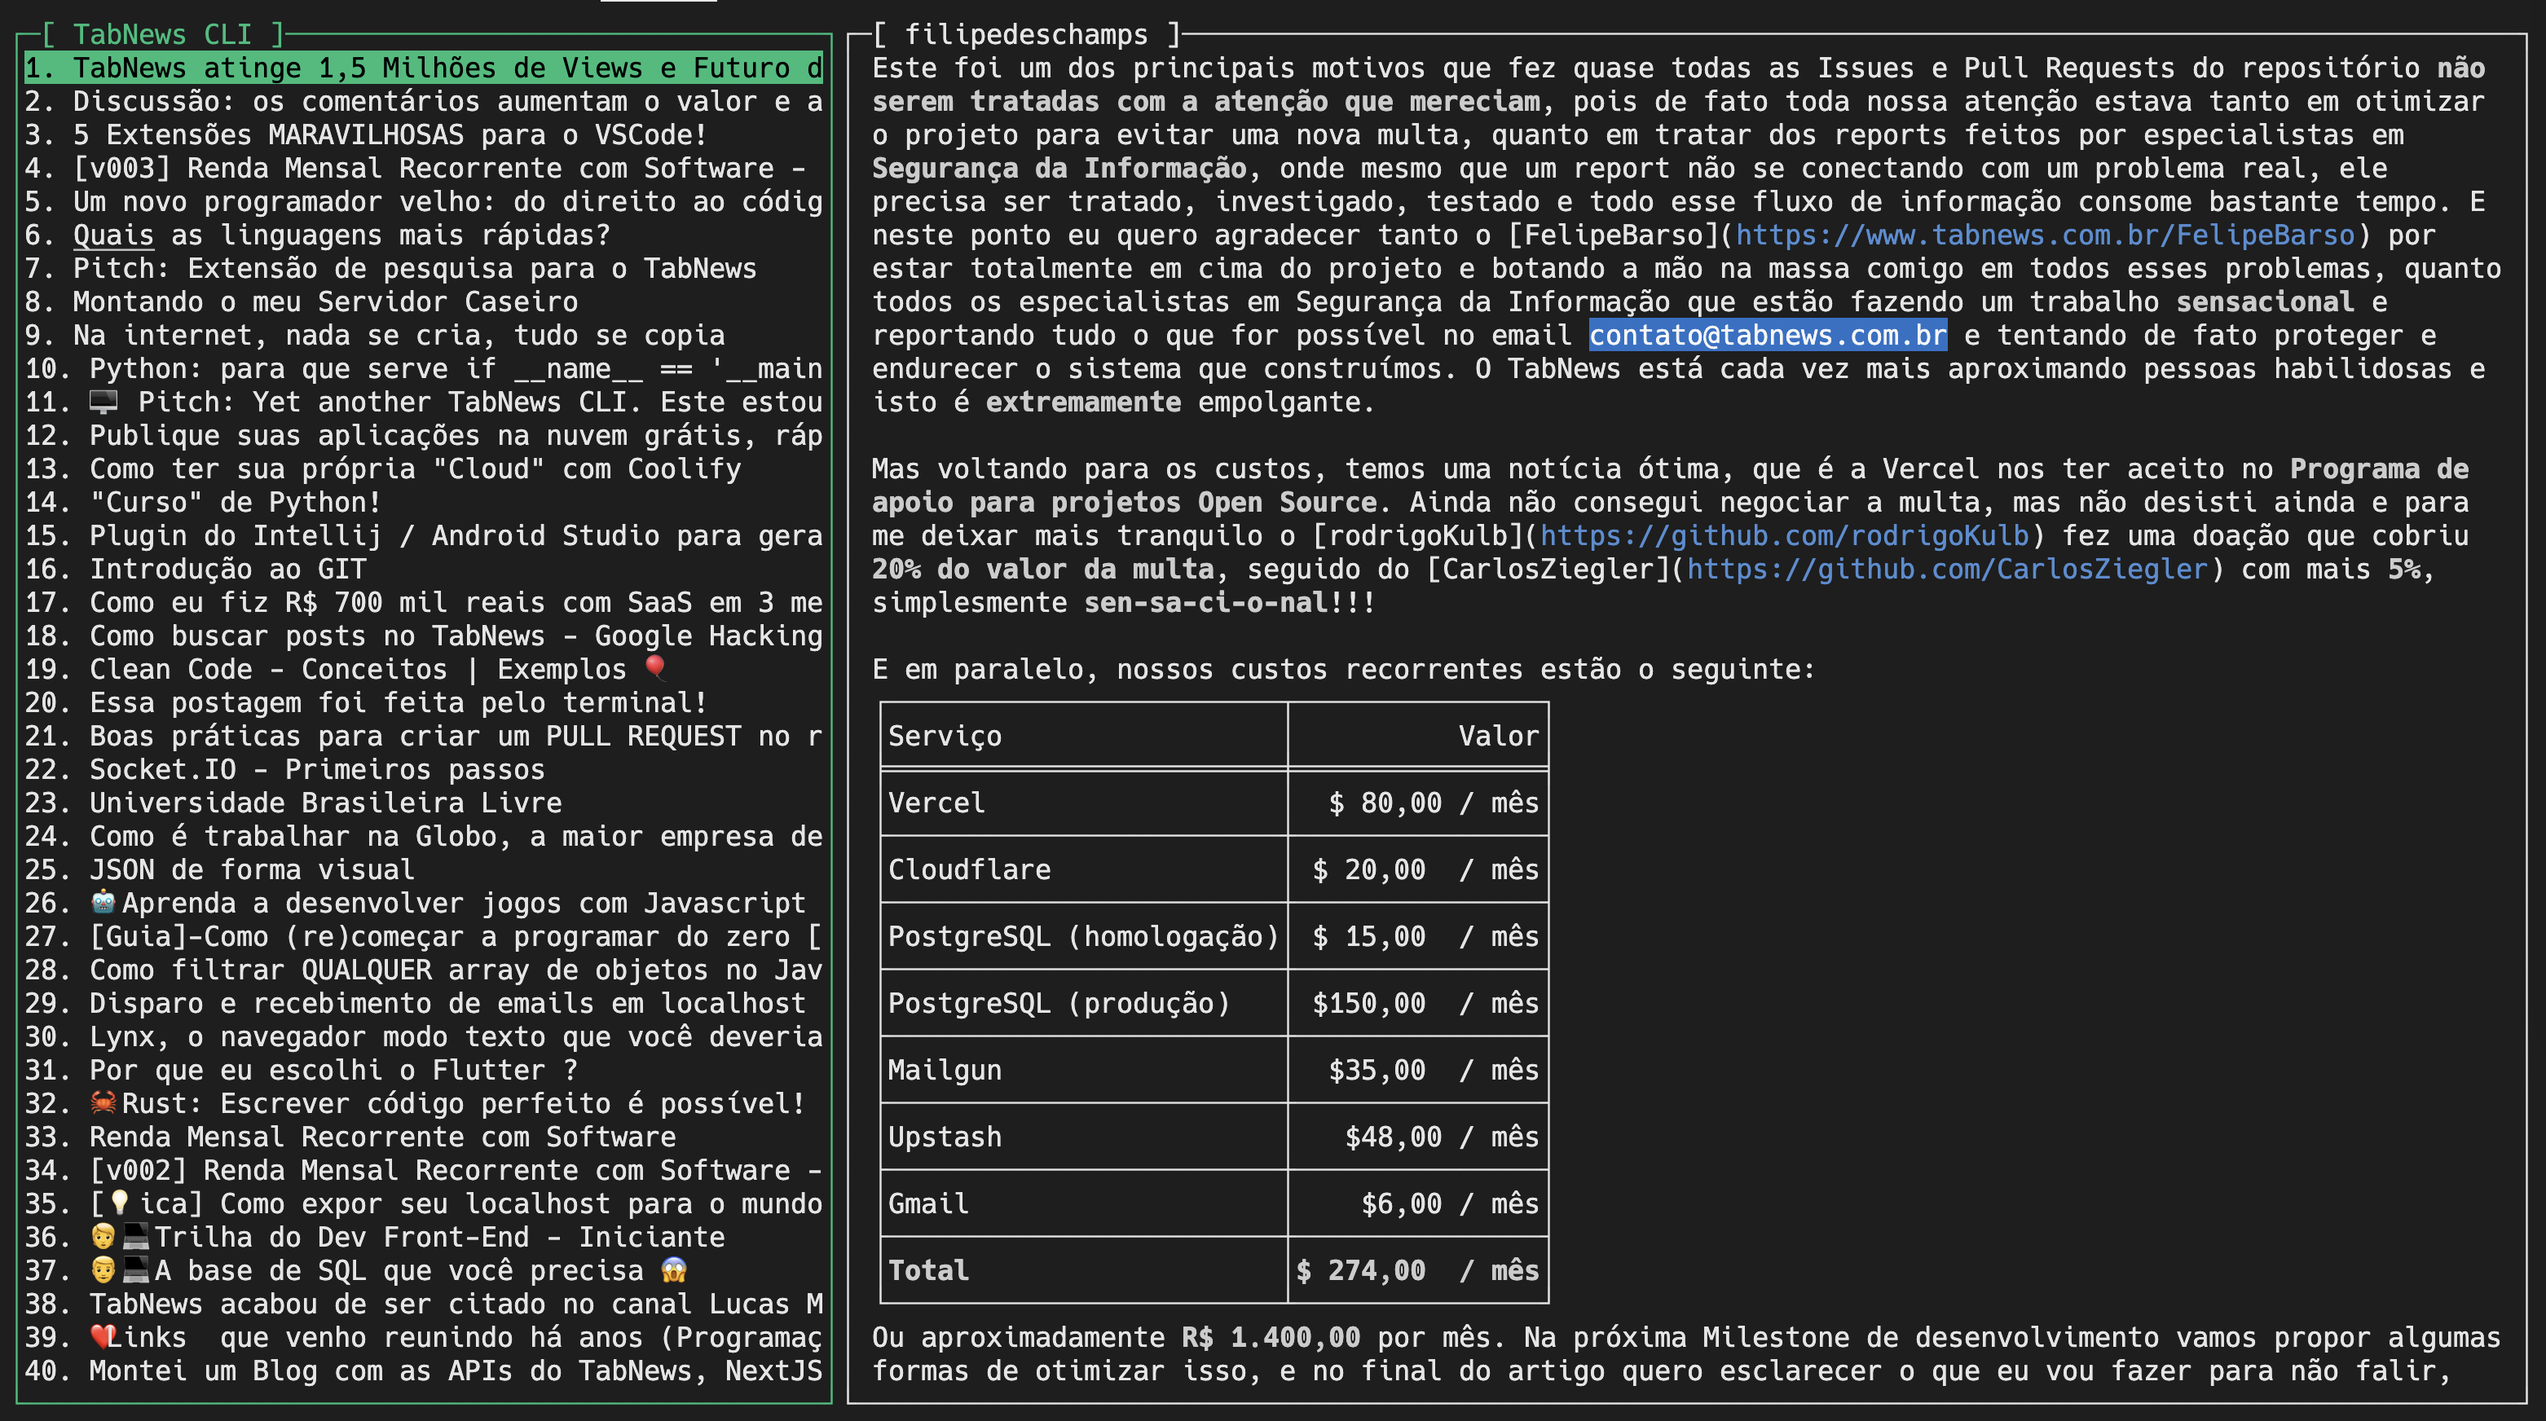
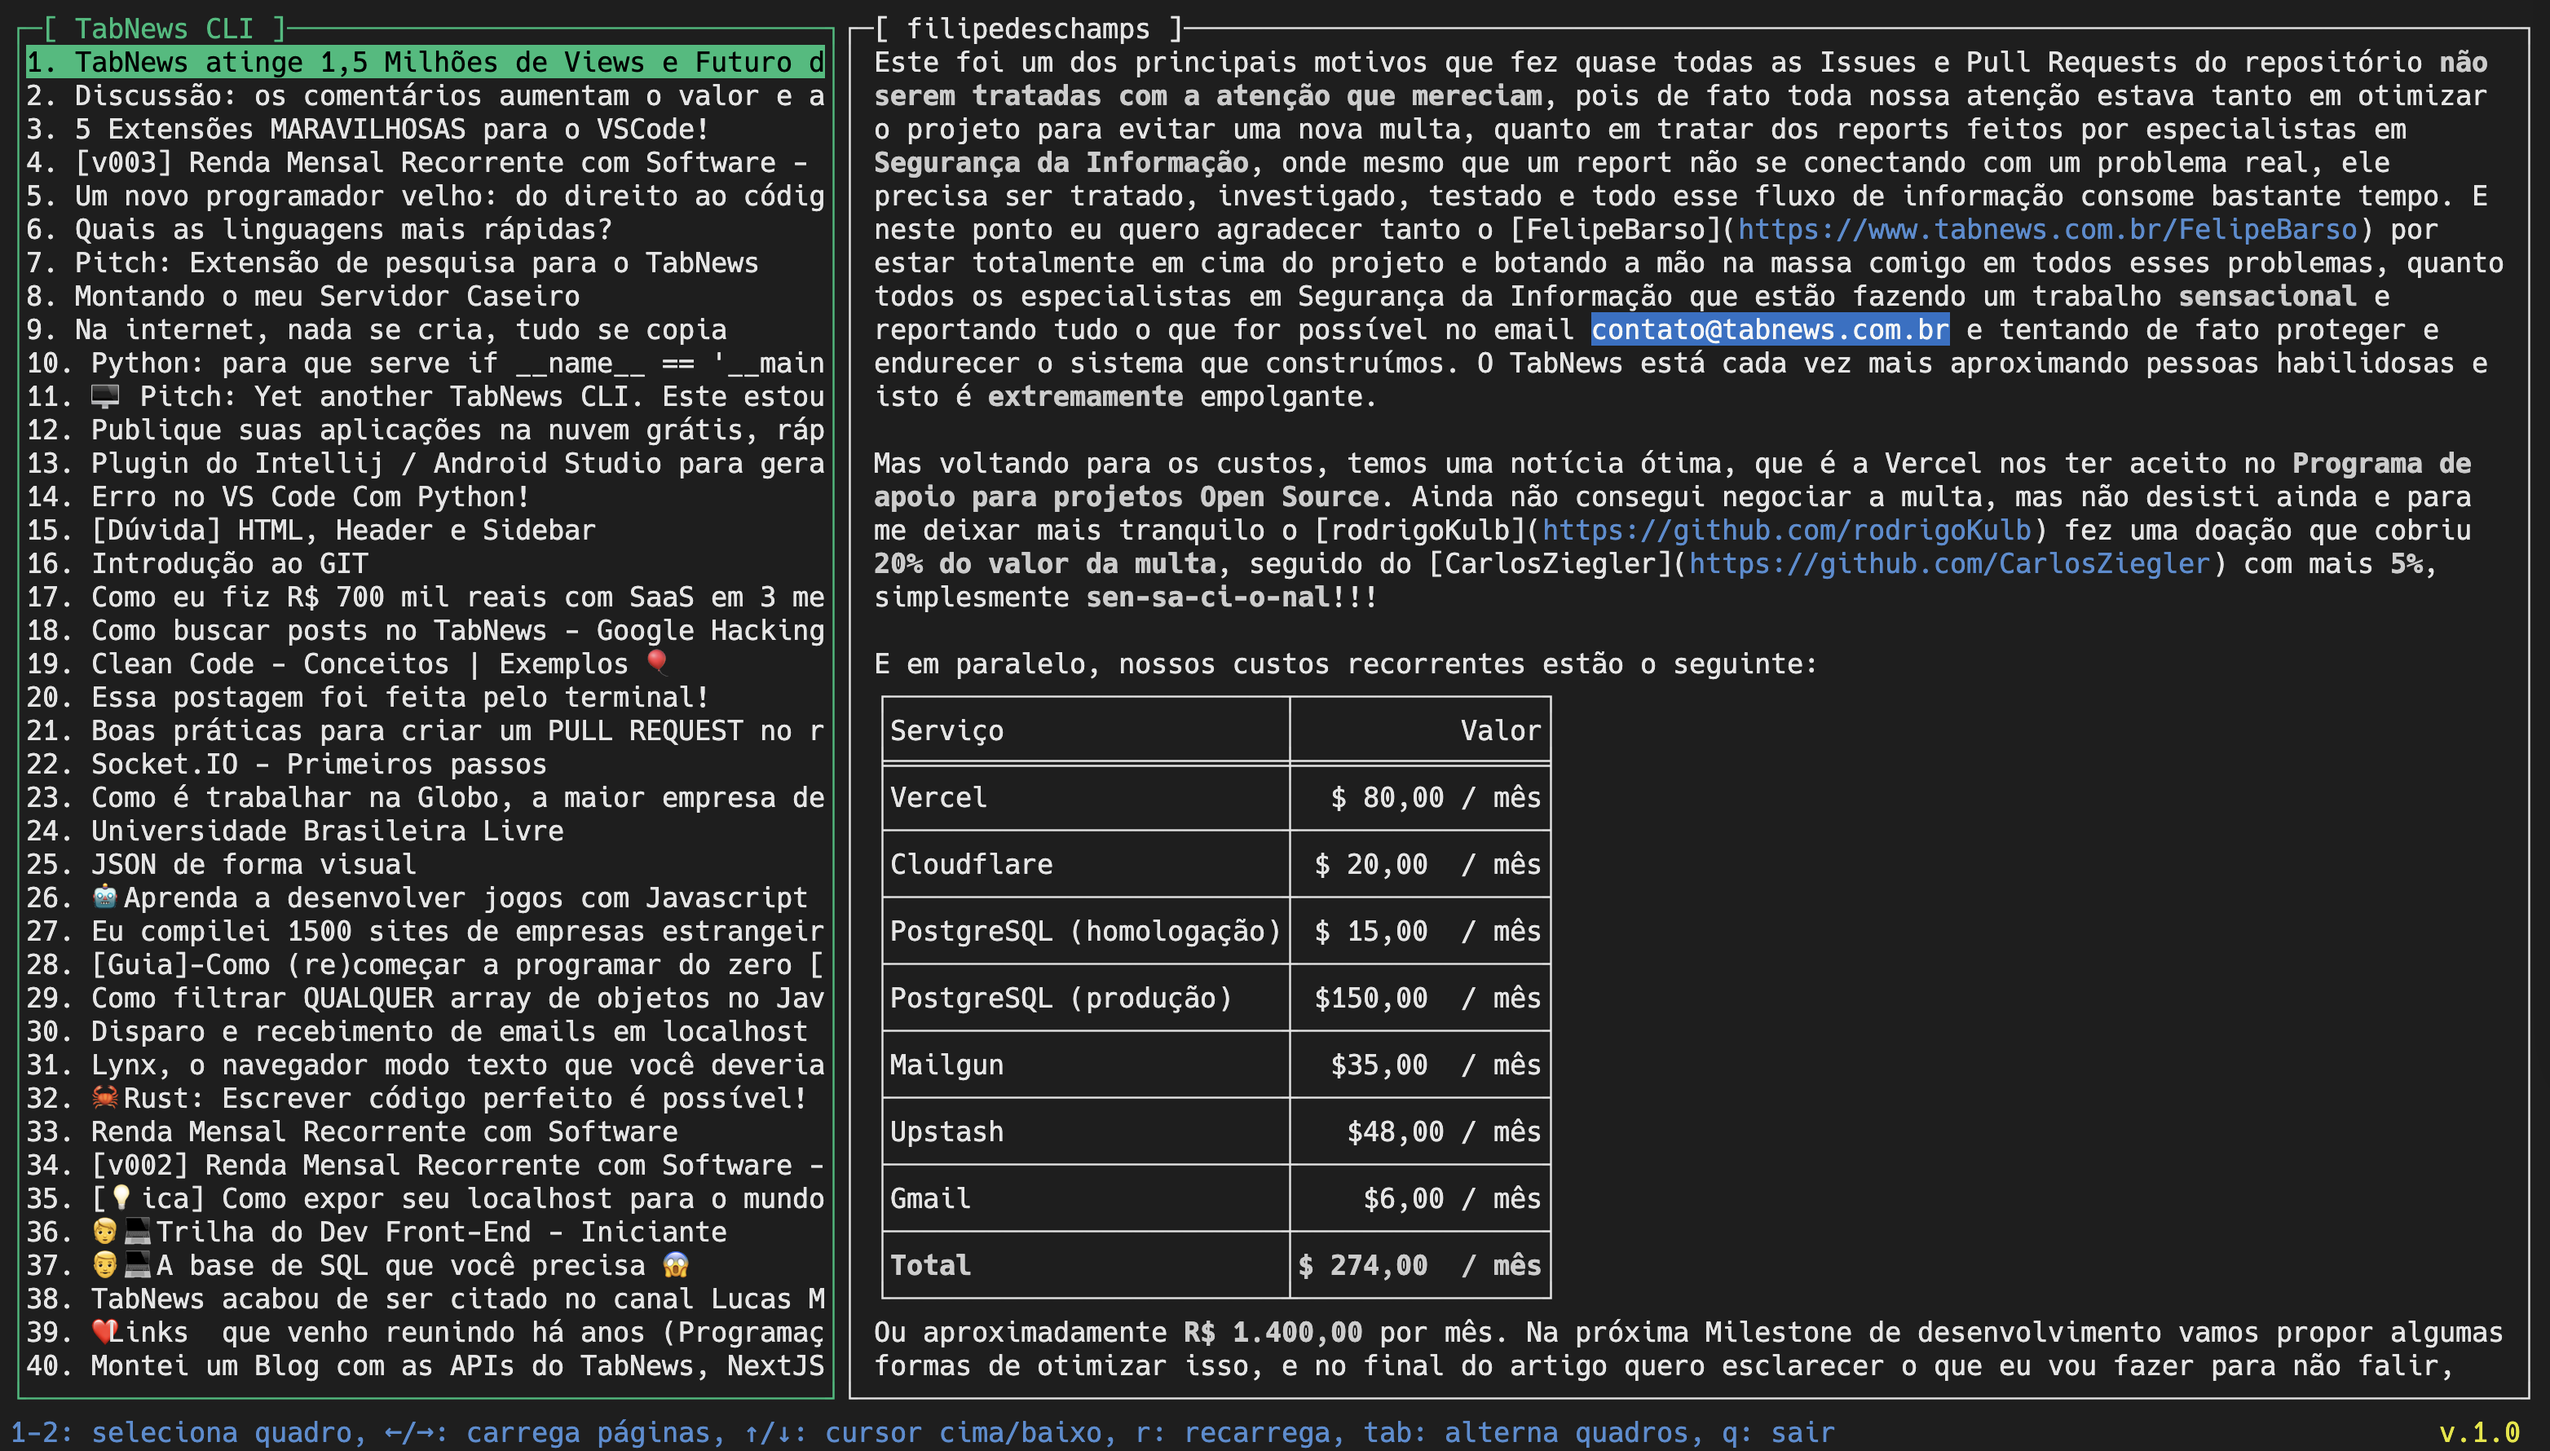
Added bottom and version views

Changed region(s): [[0.0, 0.0, 0.9936, 1.0]]

diff --git a/main.go b/main.go
@@ -6,6 +6,8 @@ import (
 	"log"
 	"net/http"
 	"os"
+	"os/exec"
+	"runtime"
 	"strings"
 	"time"
 
@@ -15,13 +17,16 @@ import (
 
 const (
 	APP_TITLE		   = "TabNews CLI"
-	APP_VERSION    = "1.0.0"
+	APP_VERSION    = "1.0"
 	APP_COPYRIGHT  = "(c) 2022 Carlos E. Torres"
+	APP_GITHUB		 = "https://github.com/cetorres/tn-cli"
 	URL_RECENTS    = "https://www.tabnews.com.br/recentes/rss"
 	URL_API				 = "https://www.tabnews.com.br/api/v1"
 	URL_CONTENTS   = URL_API + "/contents"
 	LIST_VIEW			 = "list"
 	READER_VIEW		 = "reader"
+	BOTTOM_VIEW		 = "bottom"
+	VERSION_VIEW	 = "version"
 	READER_PADDING = 1
 	PAGE_SIZE			 = 40
 )
@@ -174,7 +179,9 @@ func selectReaderView(g *gocui.Gui, v *gocui.View) error {
 
 func layout(g *gocui.Gui) error {
 	maxX, maxY := g.Size()
-	if v, err := g.SetView(LIST_VIEW, 0, 0, maxX/3-1, maxY-1); err != nil {
+
+	// Set up list view
+	if v, err := g.SetView(LIST_VIEW, 0, 0, maxX/3-1, maxY-2); err != nil {
 		if err != gocui.ErrUnknownView {
 			return err
 		}
@@ -193,7 +200,8 @@ func layout(g *gocui.Gui) error {
 		})
 	}
 
-	if v, err := g.SetView(READER_VIEW, maxX/3, 0, maxX-1, maxY-1); err != nil {
+	// Set up reader view
+	if v, err := g.SetView(READER_VIEW, maxX/3, 0, maxX-1, maxY-2); err != nil {
 		if err != gocui.ErrUnknownView {
 			return err
 		}
@@ -201,6 +209,34 @@ func layout(g *gocui.Gui) error {
 		v.Wrap = true
 		v.Autoscroll = false
 	}
+
+	// Set up version view
+	versionStr := "v." + APP_VERSION
+	versionViewW := len(versionStr)+2
+	if v, err := g.SetView(VERSION_VIEW, maxX-versionViewW, maxY-2, maxX-1, maxY); err != nil {
+		if err != gocui.ErrUnknownView {
+			return err
+		}
+		v.Frame = false
+		v.Wrap = false
+		v.Autoscroll = false
+		v.FgColor = gocui.ColorYellow
+
+		fmt.Fprintln(v, versionStr)
+	}
+
+	// Set up bottom help view
+	if v, err := g.SetView(BOTTOM_VIEW, -1, maxY-2, maxX-versionViewW-1, maxY); err != nil {
+		if err != gocui.ErrUnknownView {
+			return err
+		}
+		v.Frame = false
+		v.Wrap = false
+		v.Autoscroll = false
+		v.FgColor = gocui.ColorBlue
+
+		fmt.Fprintln(v, "1-2: seleciona quadro, ←/→: carrega páginas, ↑/↓: cursor cima/baixo, r: recarrega, tab: alterna quadros, q: sair")
+	}	
 	
 	return nil
 }
@@ -252,6 +288,28 @@ func LoadList(g *gocui.Gui, v *gocui.View) error {
 		return nil
 	})
 	
+	return nil
+}
+
+func openbrowser(url string) {
+  var err error
+  switch runtime.GOOS {
+  case "linux":
+    err = exec.Command("xdg-open", url).Start()
+  case "windows":
+    err = exec.Command("rundll32", "url.dll,FileProtocolHandler", url).Start()
+  case "darwin":
+    err = exec.Command("open", url).Start()
+  default:
+    err = fmt.Errorf("unsupported platform")
+  }
+  if err != nil {
+    panic(err)
+  }
+}
+
+func HandleClickVersion(g *gocui.Gui, v *gocui.View) error {
+	openbrowser(APP_GITHUB)
 	return nil
 }
 
@@ -481,6 +539,10 @@ func main() {
 	if err := g.SetKeybinding(READER_VIEW, gocui.MouseWheelDown, gocui.ModNone, ScrollDown); err != nil {
 		log.Panicln(err)
 	}
+
+	if err := g.SetKeybinding(VERSION_VIEW, gocui.MouseLeft, gocui.ModNone, HandleClickVersion); err != nil {
+		log.Panicln(err)
+	}	
 
 	if err := g.MainLoop(); err != nil && err != gocui.ErrQuit {
 		log.Panicln(err)

diff --git a/README.md b/README.md
@@ -28,7 +28,7 @@ The project needs help with these items.
 - [ ] Fix known bug on the left side list scroll
 - [ ] Load TabNews **relevant** posts RSS feed and add a new tab to the left side view.
 - [ ] Hide/show left side view for better reading in full screen
-- [ ] Show a bottom line with available commands and app version
+- [x] Show a bottom line with available commands and app version
 - [x] Improve the reader view to show contents better, with `markdown` and links.
 - [ ] Add your feature to the list...
 
